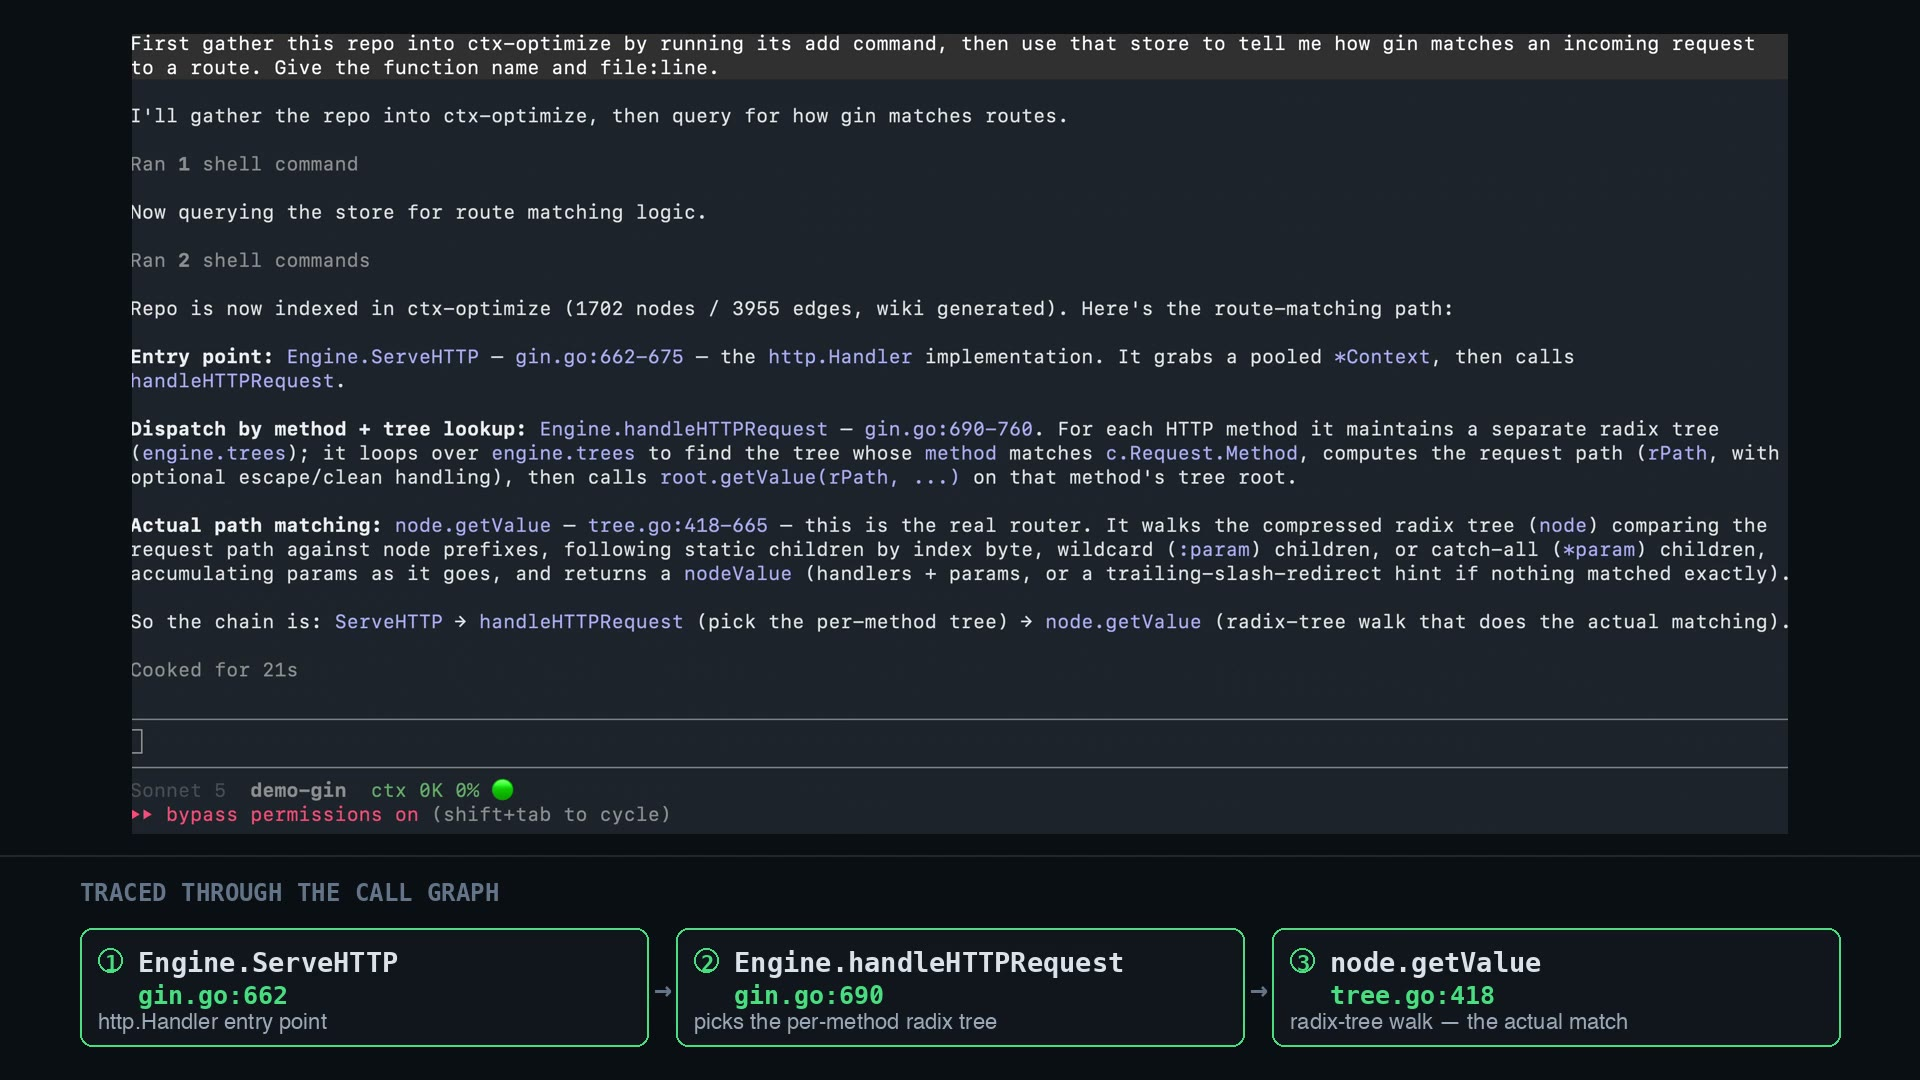
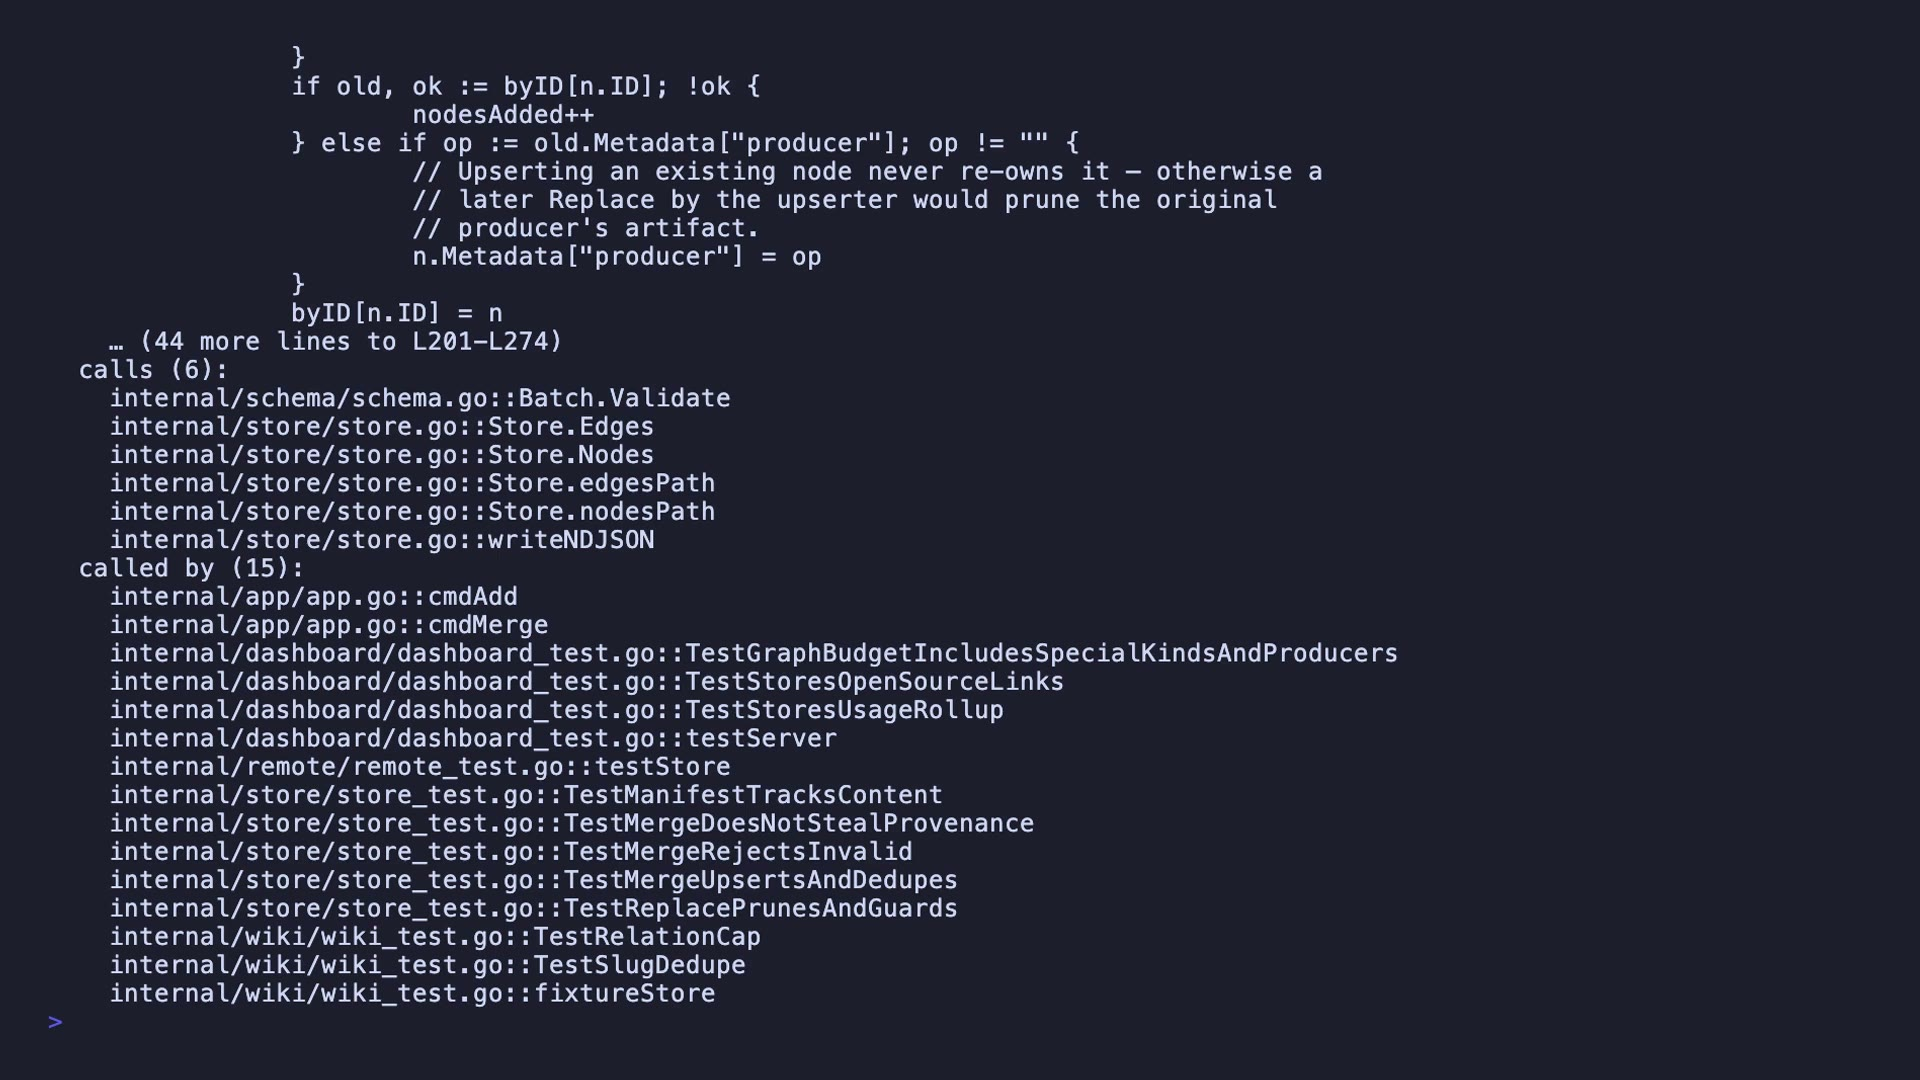
media(site): deploy the recreated real-session explainer (36s, current v0.3.5 dashboard, real card output) + update caption

Changed region(s): [[0.0312, 0.275, 0.9688, 0.9778], [0.0625, 0.0306, 0.9375, 0.2444]]

diff --git a/index.html b/index.html
@@ -227,11 +227,11 @@ cd your-repo &amp;&amp; ctx-optimize init &amp;&amp; ctx-optimize add .   <span 
 </div></header>
 
 <section class="herodemo" id="watch" style="padding:80px 0 20px"><div class="wrap">
-  <div class="sec-kicker">watch it work · 55 seconds</div>
-  <h2 class="sec">Install, let Claude gather the repo, ask, and see what it saved.</h2>
-  <p class="sec-sub">One real session, unedited: Claude runs <code>ctx-optimize add</code> itself, answers a routing question straight from the store — with file-and-line citations — then the dashboard shows the tokens and dollars it saved.</p>
+  <div class="sec-kicker">watch it work · 36 seconds</div>
+  <h2 class="sec">Install the skill, gather the repo, ask — and see what it saved.</h2>
+  <p class="sec-sub">One real session, unedited: <code>install --skills</code>, then <code>init &amp;&amp; add .</code>, then a symbol card — signature, doc, body, and every caller, each cited with exact <b>file:line</b> — and the dashboard shows the tokens and dollars it's saved.</p>
   <video src="media/explainer.mp4" controls preload="metadata" poster="media/explainer-poster.jpg" playsinline class="reveal"></video>
-  <p class="cap">Narrated walkthrough · <code>gin-gonic/gin</code> · the answer and every metric are from this run</p>
+  <p class="cap">Narrated walkthrough · <code>ctx-optimize</code>'s own source · the card and every metric are real, unedited output from this run</p>
 </div></section>
 
 <section class="getit" id="getstart" style="padding:70px 0 20px"><div class="wrap">